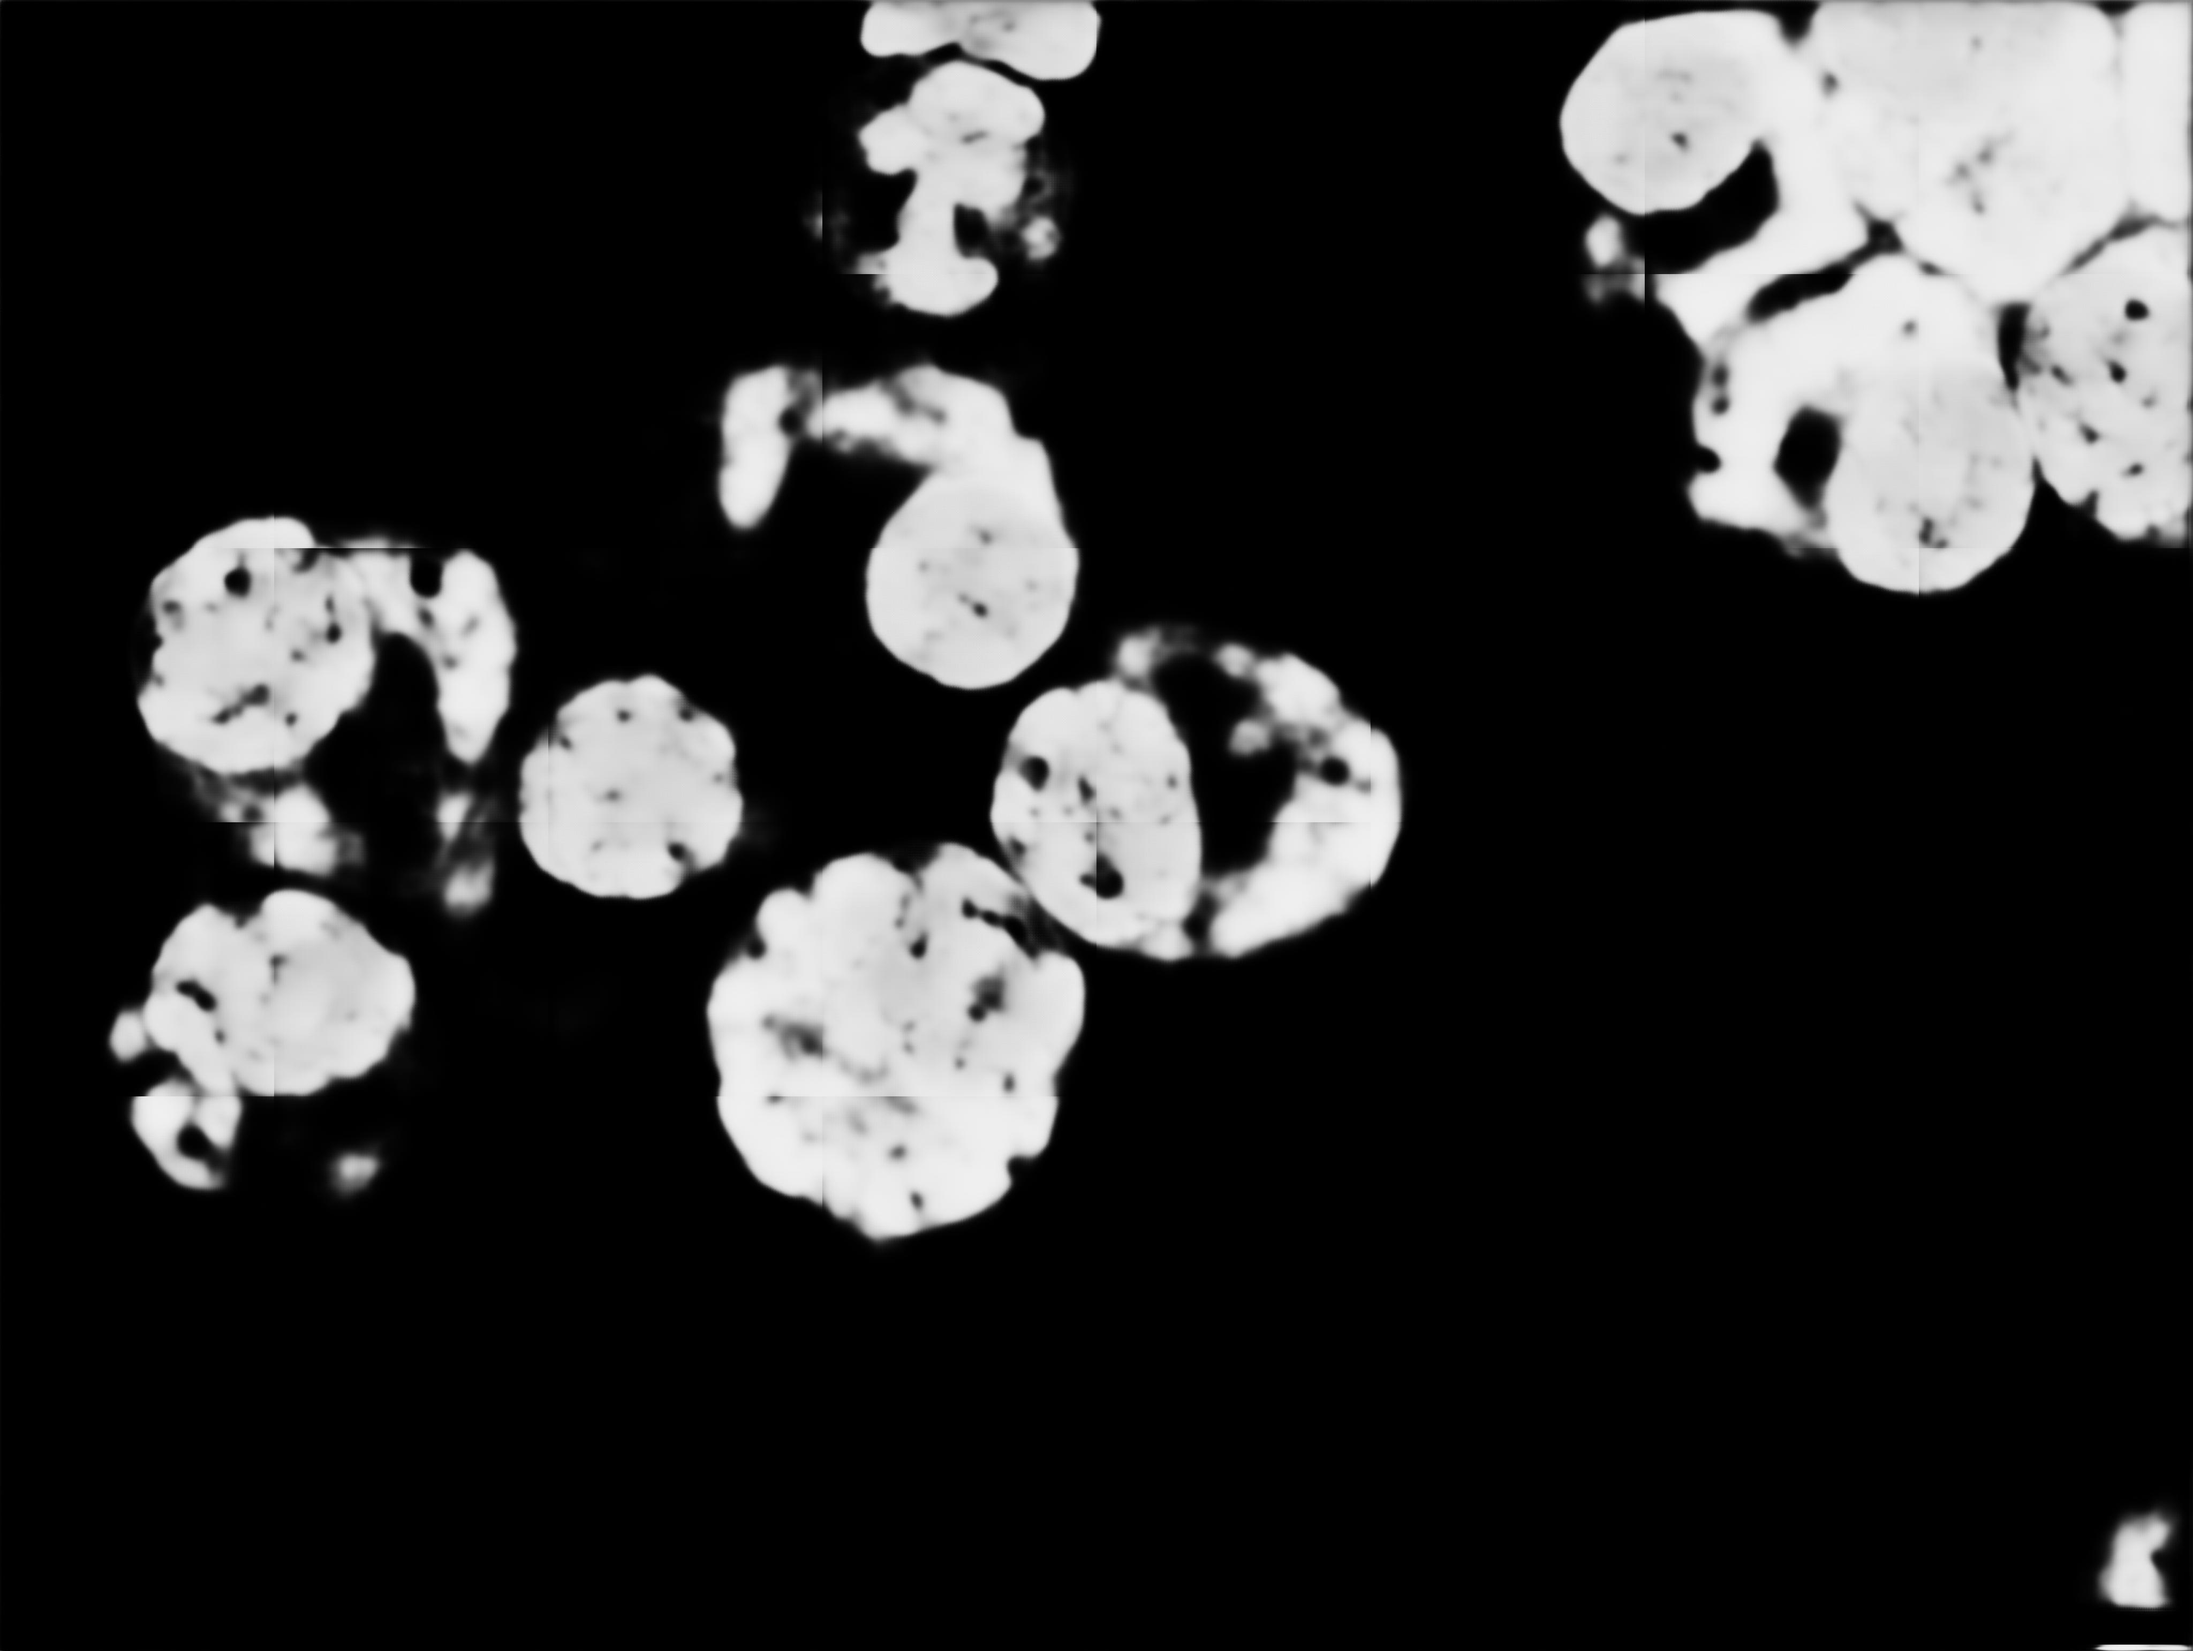
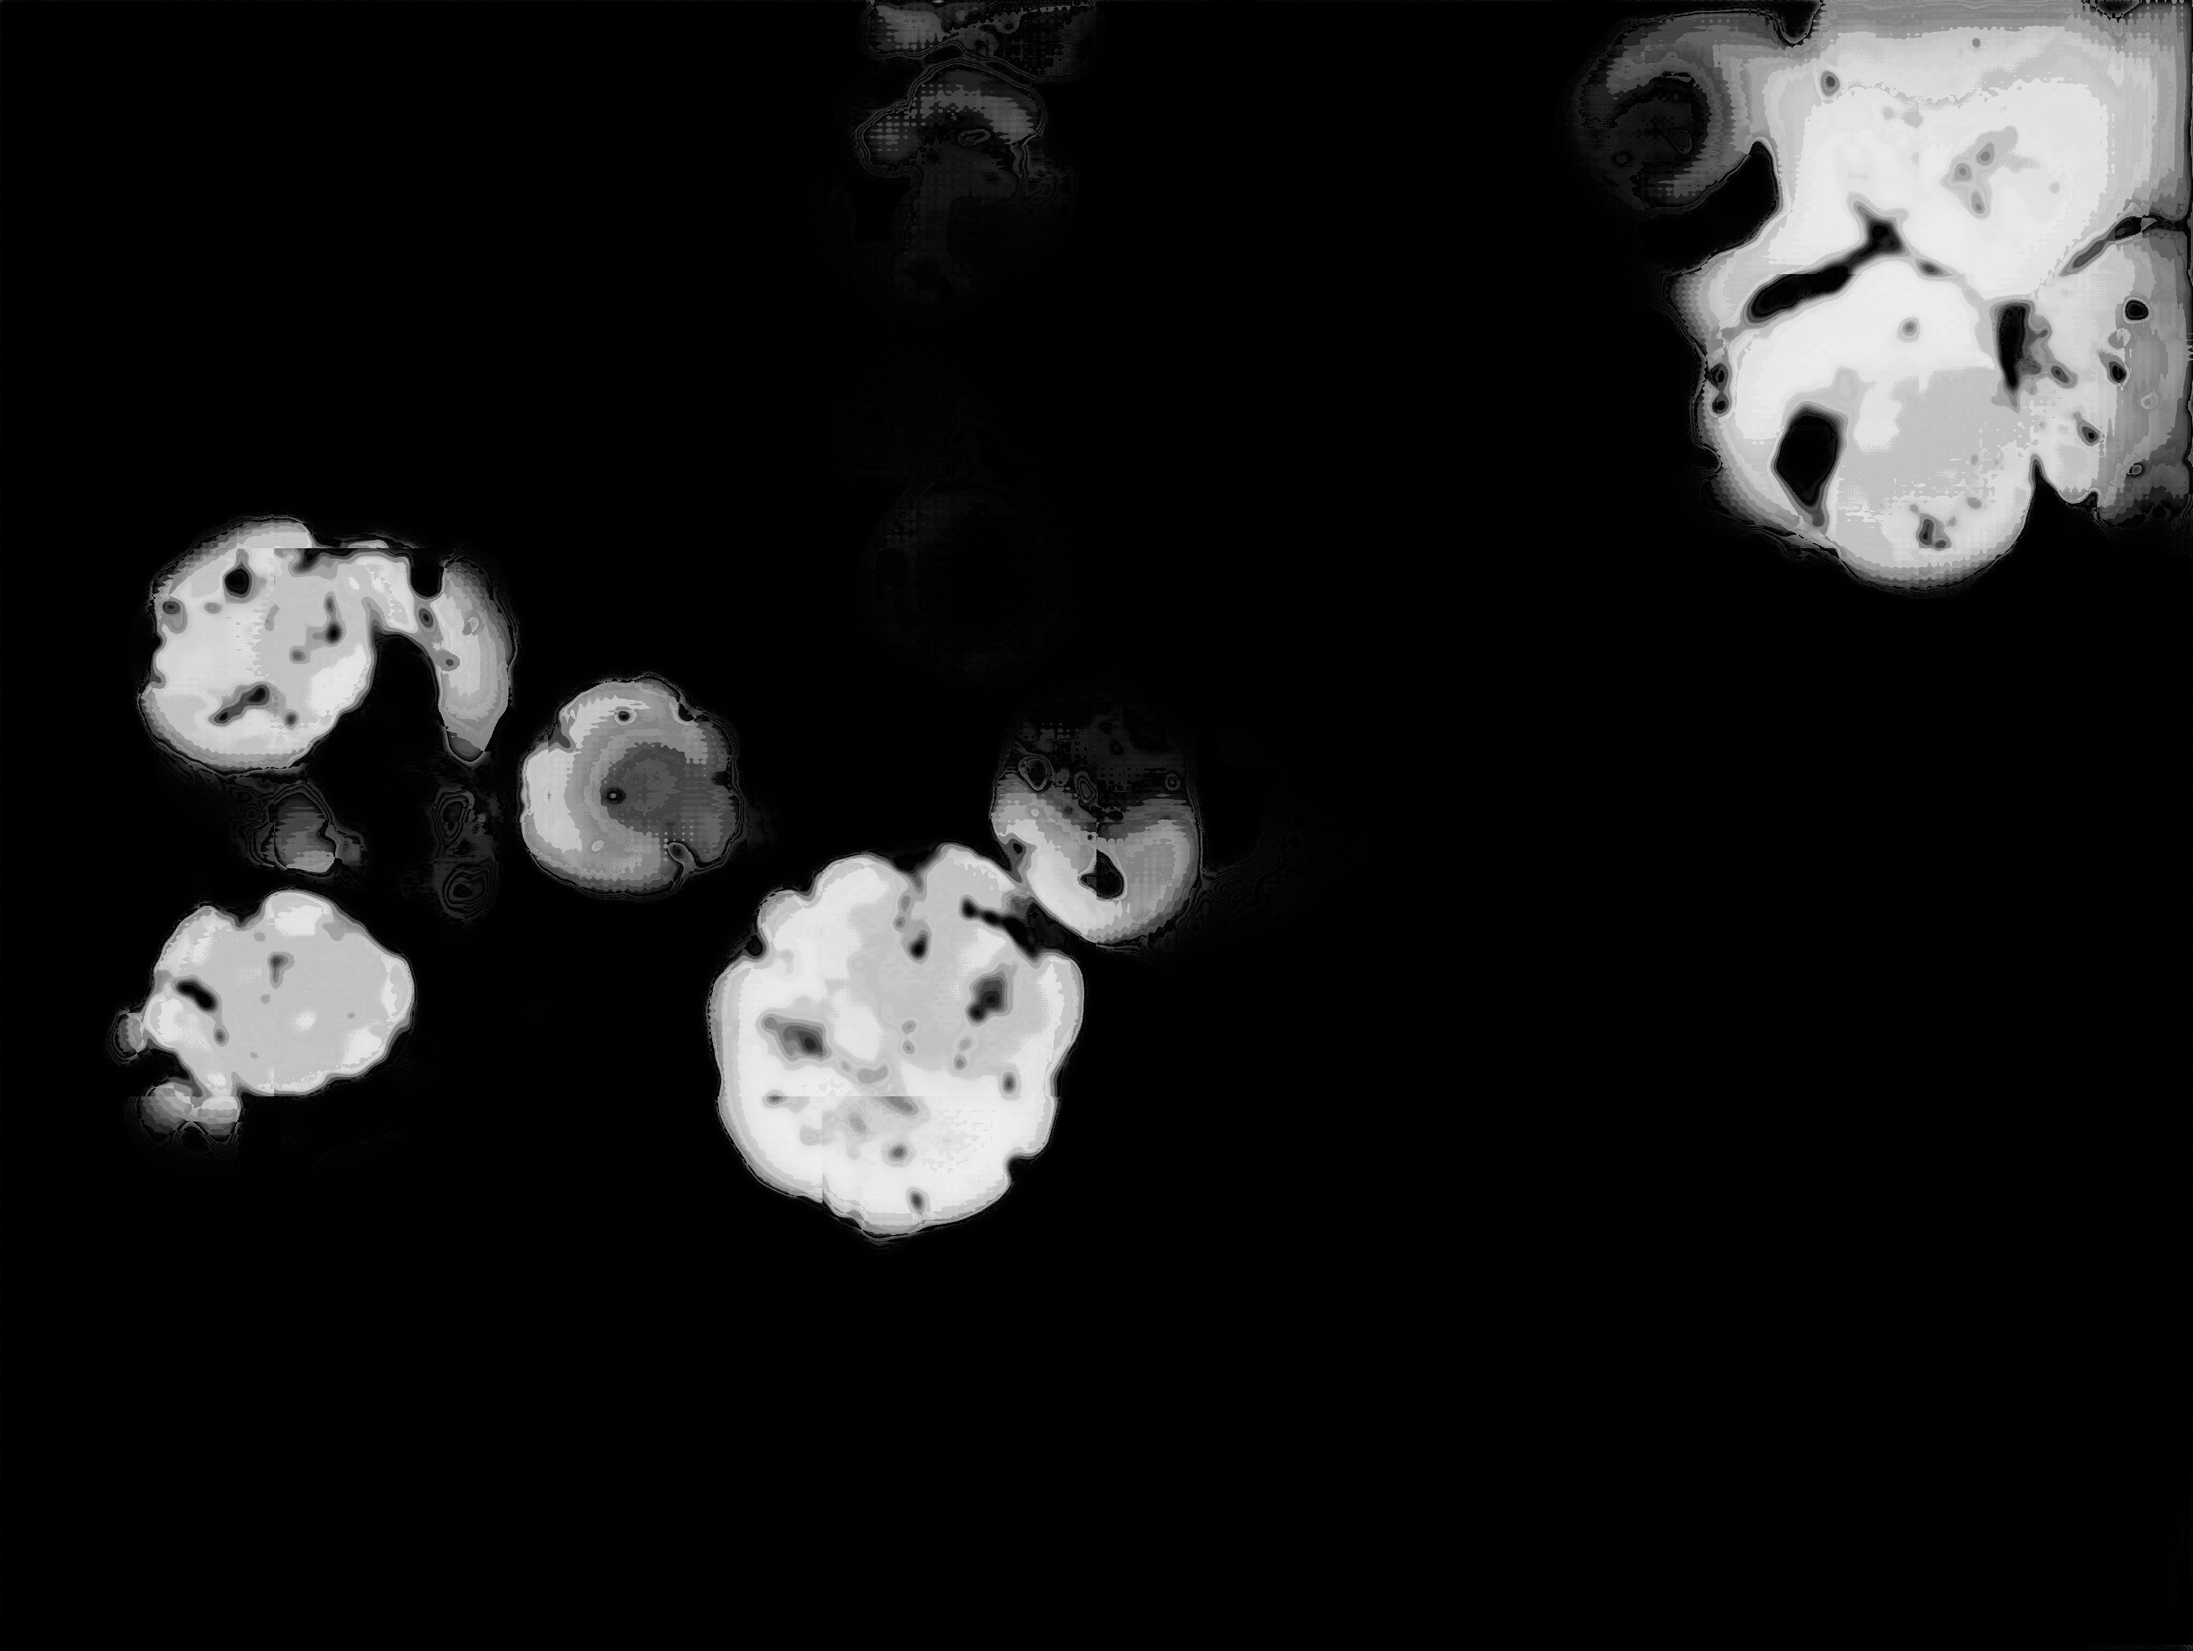
Modified TensorflowUNet.py to support biwise_blending in infer_tiles method,

diff --git a/README.md b/README.md
@@ -1,4 +1,4 @@
-<h2>Tensorflow-Tiled-Image-Segmentation-MultipleMyeloma(2024/03/3)</h2>
+<h2>Tensorflow-Tiled-Image-Segmentation-MultipleMyeloma(2024/03/5)</h2>
 
 This is the second experimental Tiled-Image Segmentation project for MultipleMyeloma based on
 the <a href="https://github.com/sarah-antillia/Tensorflow-Image-Segmentation-API">Tensorflow-Image-Segmentation-API</a>, and
@@ -8,7 +8,8 @@ the <a href="https://github.com/sarah-antillia/Tensorflow-Image-Segmentation-API
 <img src="./projects/TensorflowSlightlyFlexibleUNet/MultipleMyeloma/asset/segmentation_sample.png" width="720" height="auto">
 <br>
 <br>
-
+<li>2024/03/05: Modified <a href="./src/TensorflowUNet.py">TensorflowUNet.py</a> to support biwise_blending in infer_tiles method.</li>
+<br>
 Please see our first experiment <br>
 <a href="https://github.com/atlan-antillia/Tiled-Image-Segmentation-Multiple-Myeloma">Tiled-Image-Segmentation-Multiple-Myeloma</a>
 <br>
